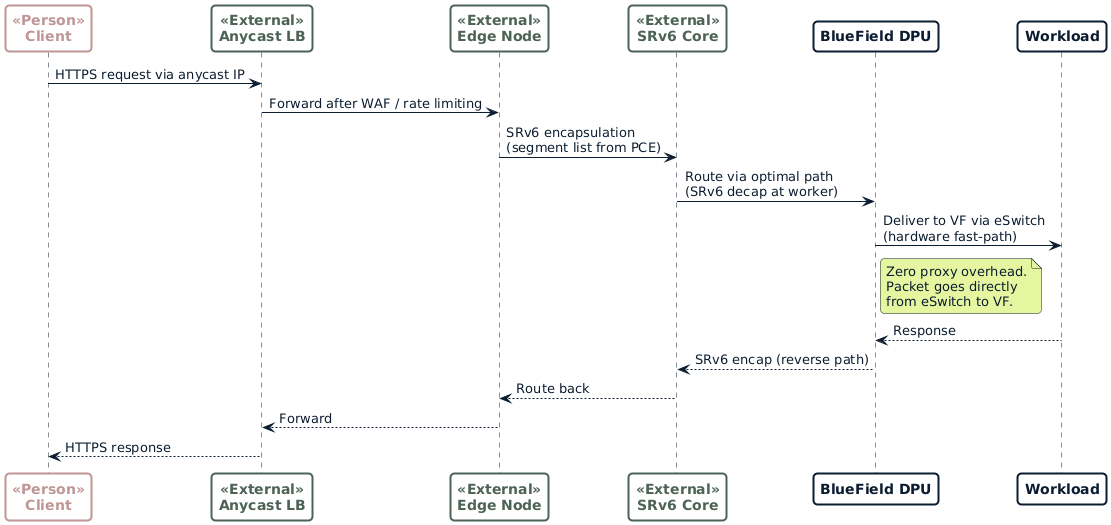
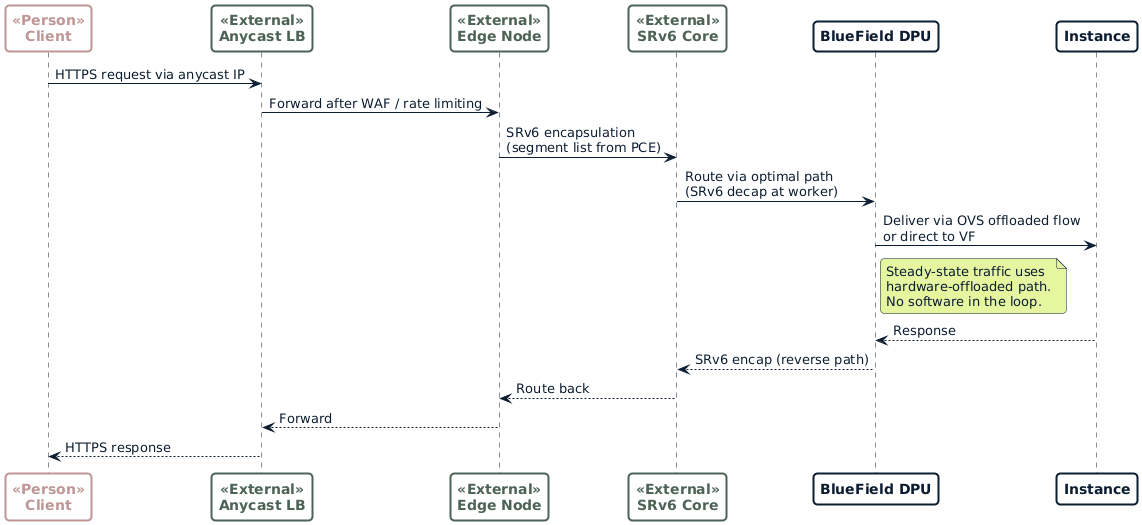
fix(compute): align entire document with OVS flow miss approach
Audit pass to ensure all sections reflect the shift from eBPF to OVS
flow miss for wake-on-traffic:

- Architecture overview: DPU + OVS as node layer, remove eBPF reference
- Steady-state flow: describe both standard (OVS/TAP) and performance
  (VF) paths instead of assuming VF-only
- Inter-workload: neutral about attachment type (OVS/TAP or VF)
- Julia UNRESOLVED: fix stale eBPF reference to OVS flow miss
- Steady-state sequence diagram: show class-neutral delivery
- Remove orphaned link references (af-xdp, ebpf, nfqueue, xdp)

diff --git a/enhancements/compute/network-connectivity/README.md b/enhancements/compute/network-connectivity/README.md
@@ -245,14 +245,14 @@ The system has four layers, each with clear responsibilities:
 |-------|-----------|----------------|
 | **Edge** | Anycast LB + WAF | Client-facing traffic reception, DDoS protection, rate limiting |
 | **Fabric** | gVPC SRv6 Core | Encrypted, SLA-aware transport between edge and worker nodes |
-| **Node** | BlueField DPU | Traffic steering, wake-on-traffic signaling, NetworkInterfaceClass implementation |
+| **Node** | BlueField DPU + OVS | Hardware traffic steering, OVS flow offload, NetworkInterfaceClass implementation |
 | **Workload** | VMM + Runtime | Workload execution (Firecracker + Unikraft for functions, other VMMs for other types) |
 
-The edge and fabric layers are fully workload-agnostic. The node layer provides
-workload-type-specific behaviors (scale-from-zero for functions, always-on
-steering for databases) through configurable eBPF programs and implements the
-NetworkInterfaceClass abstraction. The workload layer is pluggable -- any
-runtime that exposes a network interface can attach to gVPC.
+The edge and fabric layers are fully workload-agnostic. The node layer
+implements the NetworkInterfaceClass abstraction and provides
+workload-type-specific behaviors (scale-from-zero via OVS flow miss for
+functions, always-on hardware steering for databases). The workload layer is
+pluggable -- any runtime that exposes a network interface can attach to gVPC.
 
 ### NetworkInterfaceClass
 
@@ -309,10 +309,10 @@ paths with no software proxy:
    pre-programmed the segment list based on the destination worker node and
    traffic class.
 4. SRv6 core routes the packet through the optimal path.
-5. The destination worker's BlueField DPU decapsulates and steers the packet
-   directly to the workload's virtual function via the eSwitch hardware
-   fast-path.
-6. The workload processes the request and responds. The response follows the
+5. The destination worker's BlueField DPU decapsulates the packet. For
+   `standard` class, OVS forwards via TAP using a hardware-offloaded flow rule.
+   For `performance` class, the eSwitch steers directly to the instance's VF.
+6. The instance processes the request and responds. The response follows the
    reverse path.
 
 <p align="center">
@@ -391,7 +391,8 @@ SRv6 fabric, regardless of workload type:
 - The local DPU encapsulates the packet with SRv6 headers.
 - The gVPC fabric routes the packet to workload B's worker node, potentially
   in a different region.
-- The destination DPU decapsulates and delivers to workload B's VF.
+- The destination DPU decapsulates and delivers to workload B via its
+  NetworkInterface (OVS/TAP or VF depending on class).
 
 This enables composition patterns across workload types: a function calls a
 database, a function calls another function, a container calls a cache. All
@@ -487,8 +488,8 @@ enum result proxy_close(struct conn* c_out);
 ```
 
 The wake daemon would call `proxy_wake_instance` (or a simplified "bump by
-UUID" variant) when eBPF detects traffic for a sleeping instance. Open
-questions:
+UUID" variant) when an OVS flow miss indicates traffic for a sleeping instance.
+Open questions:
 
 - Can this API be exposed as a gRPC/REST service rather than a C library with
   IPC, to avoid tight coupling between the wake daemon and Unikraft's
@@ -518,9 +519,9 @@ pushes timelines.
 
 ### Drop SYN and Rely on TCP Retransmit
 
-The approach used by [Koyeb][koyeb-scale-to-zero]: eBPF drops the first SYN
-packet, signals a wake daemon, and relies on TCP's retransmit mechanism to
-deliver the next attempt after the VM has booted.
+The approach used by [Koyeb][koyeb-scale-to-zero]: drop the first SYN packet,
+signal a wake daemon, and rely on TCP's retransmit mechanism to deliver the
+next attempt after the VM has booted.
 
 **Why we rejected this:**
 - TCP's initial retransmit timer is 1 second (RFC 6298). Unikraft boots in
@@ -607,18 +608,14 @@ detection; gVPC handles transport.
 [doca-sdk]: https://developer.nvidia.com/networking/doca
 [arrcus-srv6]: https://arrcus.com/solutions/mup
 [rfc-6298]: https://datatracker.ietf.org/doc/html/rfc6298
-[af-xdp]: https://docs.kernel.org/networking/af_xdp.html
-[ebpf]: https://ebpf.io/what-is-ebpf/
 [dpl]: https://docs.nvidia.com/doca/sdk/doca-pipeline-language-services-guide/index.html
 [dpu]: https://blogs.nvidia.com/blog/whats-a-dpu-data-processing-unit/
 [bluefield]: https://www.nvidia.com/en-us/networking/products/data-processing-unit/
-[nfqueue]: https://netfilter.org/projects/libnetfilter_queue/
 [sriov]: https://docs.kernel.org/PCI/pci-iov-howto.html
 [srv6]: https://www.segment-routing.net/
 [unikraft]: https://unikraft.org/
 [firecracker]: https://firecracker-microvm.github.io/
 [vpp]: https://fd.io/
-[xdp]: https://www.iovisor.org/technology/xdp
 [tap]: https://docs.kernel.org/networking/tuntap.html
 [virtio]: https://docs.oasis-open.org/virtio/virtio/v1.2/virtio-v1.2.html
 [vfio]: https://docs.kernel.org/driver-api/vfio.html
